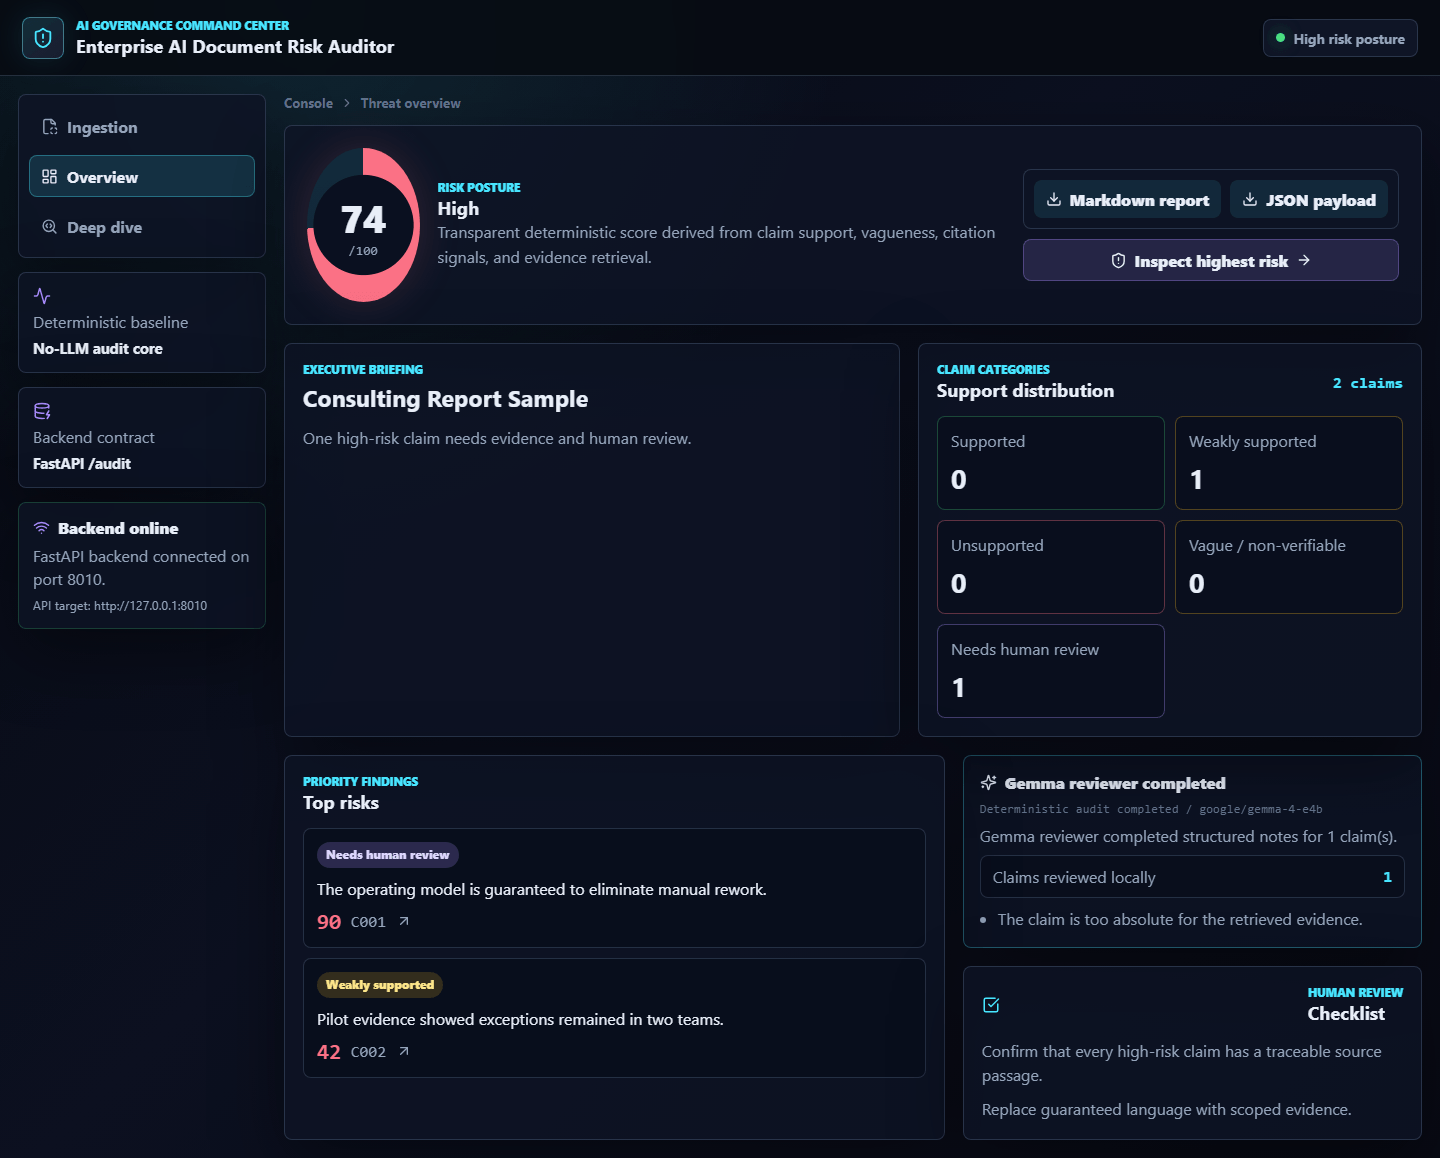
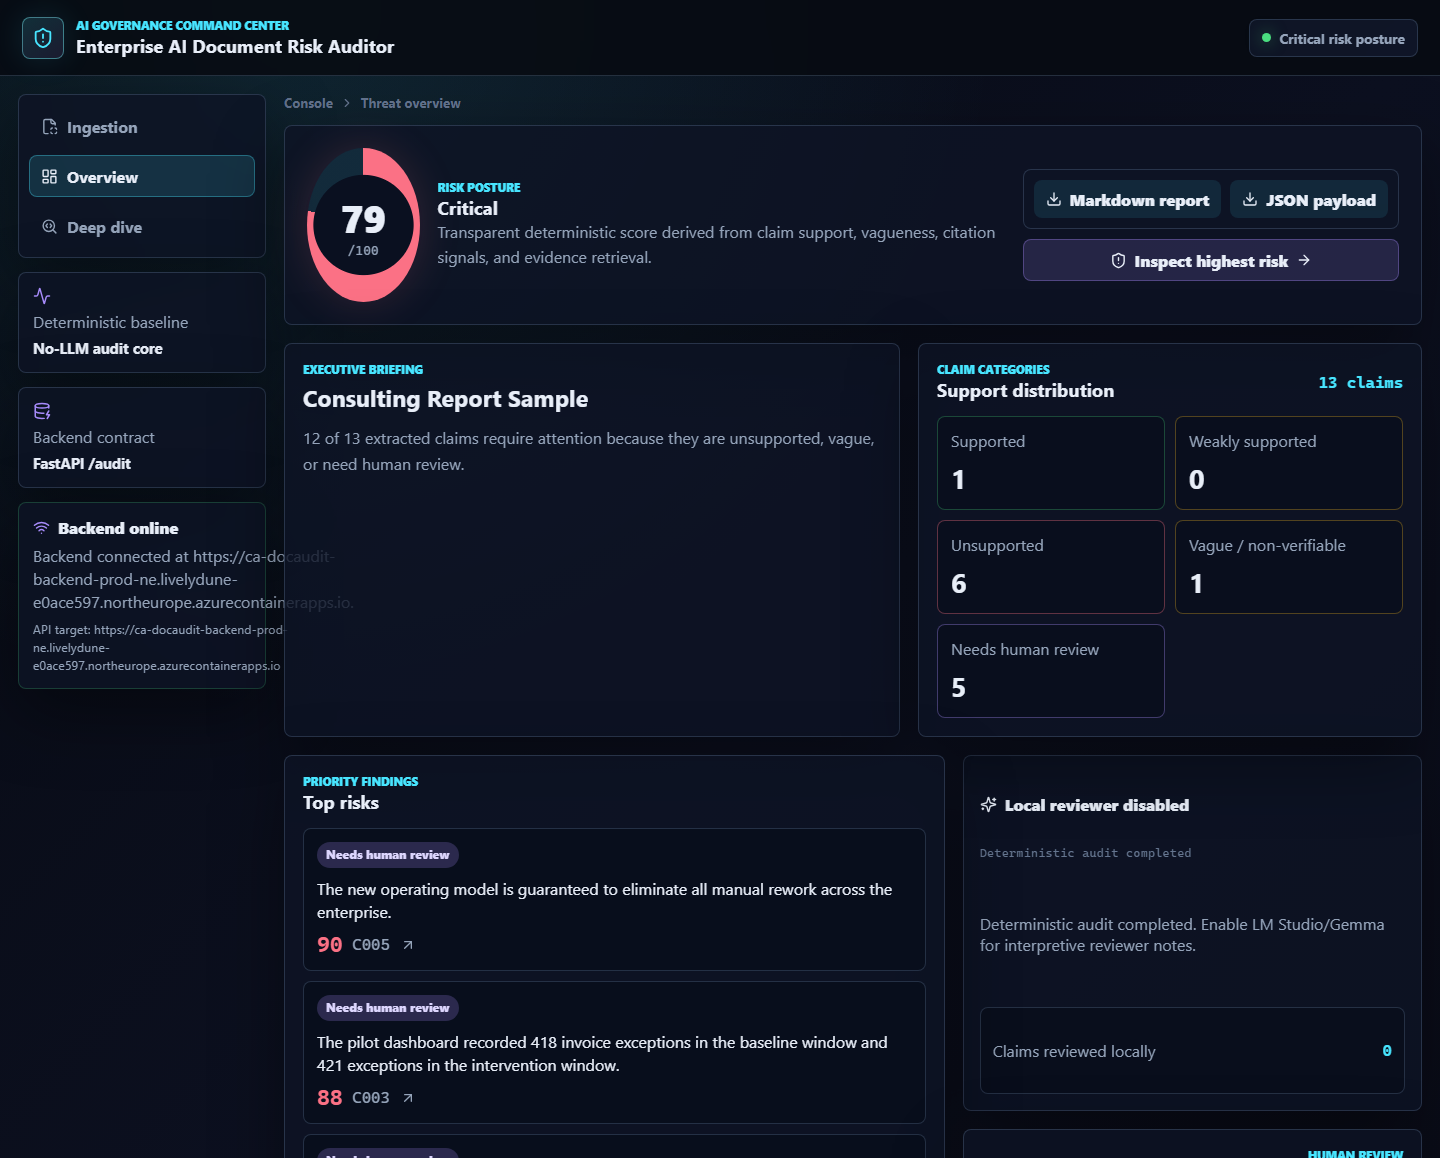
feat: link the live Azure deployment from the auditor project (#7)
* feat: link the live Azure deployment from the auditor project

The Document Risk Auditor now runs publicly on Azure, so the project page
should reach it rather than only its source.

Adds an optional liveUrl to the projects schema plus a liveNote for the
case where the demo is on scale-to-zero infrastructure and the first
request is visibly slow. A refine rejects liveNote without liveUrl, since
a warning about a demo that does not exist is just noise. Both are
optional because most of these projects are research or coursework with
nothing to host.

The note sets expectations before the click rather than after: the
backend cold-starts in about twenty seconds, and a visitor who waits that
long with no explanation assumes the thing is broken.

* feat: show the live deployment in the auditor hero image

The previous capture was from a local run and its status panel read
"connected on port 8010", which contradicted the deployment the page now
links to. Replaced with a capture from the live Azure instance, same
1440x1158 framing, and updated the alt text to describe what it actually
shows. The sample document is still synthetic.

* fix(ci): replace lychee's removed --exclude-mail flag

The lychee-action is pinned to v2 but the binary it installs is not, so an
upstream lychee release that dropped --exclude-mail broke the link check
for every branch. Main has not run since that release, so this PR is
simply the first build to hit it rather than its cause.
[…]

diff --git a/src/content.config.ts b/src/content.config.ts
@@ -32,6 +32,19 @@ const projects = defineCollection({
         domain: z.enum(PROJECT_DOMAINS),
         stack: z.array(z.string().min(1)).nonempty(),
         repoUrl: z.string().url(),
+        /**
+         * A deployed, publicly reachable instance. Optional because most of
+         * these projects are research or coursework with nothing to host --
+         * only a project that genuinely runs somewhere should claim a demo.
+         */
+        liveUrl: z.string().url().optional(),
+        /**
+         * Shown next to the live link when the demo is on scale-to-zero
+         * infrastructure and the first request is visibly slow. Setting this
+         * without `liveUrl` is meaningless, and the refine below rejects it:
+         * a warning about a demo that does not exist is just noise.
+         */
+        liveNote: z.string().min(1).optional(),
         featured: z.boolean().default(false),
         /** Manual tie-break within a domain. Lower sorts first. */
         order: z.number().int().optional(),
@@ -65,6 +78,10 @@ const projects = defineCollection({
       .refine((data) => data.heroImage === undefined || data.heroImageAlt !== undefined, {
         message: 'heroImageAlt is required whenever heroImage is set',
         path: ['heroImageAlt'],
+      })
+      .refine((data) => data.liveNote === undefined || data.liveUrl !== undefined, {
+        message: 'liveNote is only meaningful alongside liveUrl',
+        path: ['liveNote'],
       }),
 });
 

diff --git a/src/content/projects/enterprise-ai-document-risk-auditor.md b/src/content/projects/enterprise-ai-document-risk-auditor.md
@@ -5,15 +5,20 @@ summary: >-
   document, retrieves supporting passages, and scores how well each claim is
   grounded in evidence before a human signs it off.
 domain: ai-ml
-stack: [Python, FastAPI, React, TF-IDF Retrieval, Local LLM]
+stack: [Python, FastAPI, React, TF-IDF Retrieval, Local LLM, Azure, Terraform, Docker]
 repoUrl: https://github.com/GeorgeAnes/enterprise-ai-document-risk-auditor
+liveUrl: https://kind-beach-04e83b00f.7.azurestaticapps.net
+liveNote: >-
+  The backend scales to zero when idle, so the first request takes ~20s while a
+  container starts. After that it is under 300ms.
 featured: true
 order: 1
 heroImage: ../../assets/projects/enterprise-ai-document-risk-auditor/screenshot-dashboard.png
 heroImageAlt: >-
-  The auditor's review dashboard, showing a risk posture dial, a breakdown of
-  claims by support category, and a ranked list of the highest-risk claims with
-  their labels. The figures shown come from a synthetic sample document.
+  The auditor's review dashboard running on the live Azure deployment, showing a
+  risk posture dial reading 79 of 100, a breakdown of thirteen extracted claims
+  by support category, and a ranked list of the highest-risk claims with their
+  labels. The figures shown come from a synthetic sample document.
 ---
 
 ## Problem
@@ -47,6 +52,42 @@ The reviewer never decides the score, the label, or the retrieved evidence, and
 the audit completes whether or not it is running. That ordering is deliberate:
 a governance tool whose output changes depending on whether a model was
 available would not be auditable.
+
+## Deployment
+
+The tool runs on Azure, with every resource defined in Terraform and nothing
+clicked into existence in the Portal. The React frontend is served from Static
+Web Apps, the FastAPI backend runs on Container Apps behind a system-assigned
+managed identity, sample documents live in Blob Storage, and Terraform state is
+held remotely so the stack is not tied to one laptop.
+
+The constraint that shaped the design was cost: it had to sit idle at
+effectively nothing. The backend therefore runs at zero minimum replicas, the
+container image is pulled from a public GitHub Container Registry package
+rather than a paid Azure registry, and log ingestion is capped so a chatty
+container stops rather than bills. The result runs at roughly €0/month.
+
+That choice has a visible cost, and the site states it rather than hiding it:
+the first request after an idle period takes about twenty seconds while a
+container cold-starts, against roughly 300ms once warm. Keeping a container
+resident would remove the wait and replace it with a permanent monthly bill —
+the wrong trade for a project whose point is that it can sit idle indefinitely.
+The frontend explains this on the first slow request instead of showing a bare
+spinner, because an unexplained twenty-second wait reads as a broken app.
+
+No secrets exist anywhere in the deployment, as a property of the design rather
+than of discipline. The container registry is public, so there are no registry
+credentials to hold. Storage shared keys are disabled at the account level, so
+no key or SAS token exists to leak — key-based access is refused by the
+platform, including for Terraform itself, which authenticates with Entra ID.
+The backend identity holds exactly one role, scoped to the single blob
+container it reads, rather than to the storage account.
+
+The stack was destroyed and rebuilt from scratch to prove it is reproducible
+rather than merely deployable once. That exercise surfaced something worth
+knowing: Azure assigns new hostnames on recreate, and since the API URL is
+compiled into the frontend bundle at build time, a rebuild and redeploy is part
+of the recovery, not an afterthought.
 
 ## Evaluation
 
